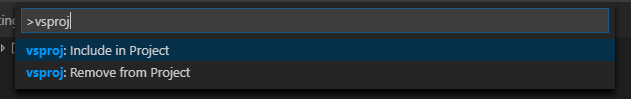
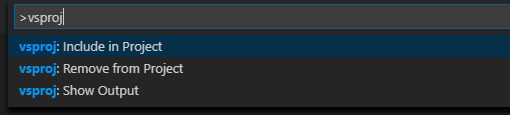
Debug output visible from terminal

diff --git a/src/extension.ts b/src/extension.ts
@@ -7,6 +7,7 @@ import * as path from 'path'
 import { Vsproj, ActionArgs, ItemType } from './types'
 import * as VsprojUtil from './vsproj'
 import * as StatusBar from './statusbar'
+import { VsProjOutput } from "./vsprojOutput";
 
 const { window, commands, workspace } = vscode
 const debounce = require('lodash.debounce')
@@ -16,7 +17,9 @@ const _debounceDeleteTime = 2000
 let _vsprojRemovals: string[] = []
 let workspaceParentFolders: string[];
 
-export function activate(context: vscode.ExtensionContext) {
+const _disposables: vscode.Disposable[] = [];
+
+export async function activate(context: vscode.ExtensionContext) {
    const config = getGlobalConfig()
    //Gobal activation
    if (!config.get<boolean>('enabled', true))
@@ -30,15 +33,22 @@ export function activate(context: vscode.ExtensionContext) {
       return;
    }
 
+   _disposables.push(await VsProjOutput.CreateChannel());
+
    const projExt = config.get<string>('projExtension', 'njsproj')
 
-   console.log('extension.vsproj#activate for', projExt);
+   VsProjOutput.AppendLine('extension.vsproj#activate for', projExt);
 
    const vsprojWatcher = workspace.createFileSystemWatcher(`**/*.${ projExt }`);
    const deleteFileWatcher = workspace.createFileSystemWatcher('**/*', true, true, false);
    const createAndChangeFileWatcher = workspace.createFileSystemWatcher('**/*', false, false, true);
 
    context.subscriptions.push(
+      commands.registerCommand('extension.vsproj.output',
+         () => {
+            //Show debug output console
+            VsProjOutput.Show()
+         }),
       commands.registerCommand('extension.vsproj.add',
          vsprojAddCommand.bind(context)),
       commands.registerCommand('extension.vsproj.remove',
@@ -107,9 +117,10 @@ function getWorkspaceParentFolders() {
 }
 
 export function deactivate() {
-   console.log('extension.vsproj#deactivate');
+   VsProjOutput.AppendLine('extension.vsproj#deactivate');
    VsprojUtil.invalidateAll();
    StatusBar.hideItem();
+   _disposables.forEach(d => d.dispose());
 }
 
 function ignoreEvent(context: vscode.ExtensionContext, uri: vscode.Uri) {
@@ -169,18 +180,18 @@ async function processAddCommand(
    bulkMode = false) {
 
    const fileName = path.basename(fsPath)
-   console.log(`extension.vsproj#trigger(${ fileName })#add`);
+   VsProjOutput.AppendLine(`extension.vsproj#trigger(${ fileName })#add`);
 
    try {
       const vsproj = await getVsprojForFile(fsPath);
       if (!vsproj) return;
 
       if (VsprojUtil.hasFile(vsproj, fsPath)) {
-         console.log(`extension.vsproj#trigger(${ fileName }): already in proj file`);
+         VsProjOutput.AppendLine(`extension.vsproj#trigger(${ fileName }): already in proj file`);
          return;
       }
 
-      console.log(`extension.vsproj#trigger(${ fileName }): add file`);
+      VsProjOutput.AppendLine(`extension.vsproj#trigger(${ fileName }): add file`);
 
       const added = await runAction({
          filePath: fsPath,
@@ -194,10 +205,10 @@ async function processAddCommand(
 
    } catch (err) {
       if (!(err instanceof VsprojUtil.NoVsprojError)) {
-         window.showErrorMessage(err.toString())
          console.trace(err)
+         VsProjOutput.AppendLine(err);
       } else {
-         console.log(`extension.vsproj#trigger(${ fileName }): no project file found`)
+         VsProjOutput.AppendLine(`extension.vsproj#trigger(${ fileName }): no project file found`)
       }
    }
 };
@@ -271,9 +282,12 @@ async function fileExists(fsPath: string) {
 
 async function handleFileDeletion({ fsPath }: vscode.Uri) {
    try {
-      console.log("did delete", fsPath);
       const vsproj = await getVsprojForFile(fsPath);
       if (!vsproj) return;
+
+      const fileName = path.basename(fsPath);
+      VsProjOutput.AppendLine(`extension.vsproj#trigger(${ fileName }) : will be deleted`);
+
       if (!wasDirectory(fsPath) && !VsprojUtil.hasFile(vsproj, fsPath))
          return
 
@@ -284,7 +298,8 @@ async function handleFileDeletion({ fsPath }: vscode.Uri) {
          () => { _vsprojRemovals = [] }
       )
    } catch (err) {
-      console.trace(err)
+      console.trace(err);
+      VsProjOutput.AppendLine(err);
    }
 }
 
@@ -360,17 +375,17 @@ async function vsprojRemoveCommand(
 
    const wasDir = wasDirectory(fsPath);
    const fileName = path.basename(fsPath);
-   console.log(`extension.vsproj#remove(${ fsPath })`)
+   VsProjOutput.AppendLine(`extension.vsproj#remove(${ fsPath })`);
 
    try {
       const removed = await VsprojUtil.removeFile(vsproj, fsPath, wasDir)
       await VsprojUtil.persist(vsproj)
       if (!removed && !bulkMode) {
-         window.showWarningMessage(`${ fileName } was not found in ${ vsproj.name }`)
+         VsProjOutput.AppendLine(`${ fileName } was not found in ${ vsproj.name }`);
       }
    } catch (err) {
-      window.showErrorMessage(err.toString())
-      console.trace(err)
+      console.trace(err);
+      VsProjOutput.AppendLine(err);
    }
 }
 
@@ -381,9 +396,10 @@ async function getVsprojForFile(fsPath: string) {
    } catch (err) {
       if (err instanceof VsprojUtil.NoVsprojError) {
          const fileName = path.basename(fsPath)
-         await window.showErrorMessage(`Unable to locate vsproj for file: ${ fileName }`)
+         VsProjOutput.AppendLine(`Unable to locate vsproj for file: ${ fileName }`);
       } else {
-         console.trace(err)
+         console.trace(err);
+         VsProjOutput.AppendLine(err);
       }
       return
    }

diff --git a/src/vsProjOutput.ts b/src/vsProjOutput.ts
@@ -1,0 +1,30 @@
+"use strict";
+
+import { OutputChannel, window } from "vscode";
+
+export class VsProjOutput {
+   private static _outputChannel: OutputChannel;
+
+   public static async CreateChannel(): Promise<OutputChannel> {
+      if (VsProjOutput._outputChannel !== undefined) {
+         return VsProjOutput._outputChannel;
+      }
+
+      VsProjOutput._outputChannel = window.createOutputChannel("VSPROJ");
+      return VsProjOutput._outputChannel;
+   }
+
+   public static AppendLine(...args: any[]) {
+      const argumentsArray = Array.from(args);
+      if (VsProjOutput._outputChannel) {
+         VsProjOutput._outputChannel.append(argumentsArray.join(" ") + "\n");
+      }
+      console.log(...argumentsArray);
+   }
+
+   public static Show() {
+      if (VsProjOutput._outputChannel) {
+         VsProjOutput._outputChannel.show();
+      }
+   }
+}

diff --git a/README.md b/README.md
@@ -36,13 +36,19 @@ Or via the context menu in the file explorer:
 
 ![Context Menu](img/demo-context-menu.png "Context Menu")
 
+## Debug
+
+You can see extension output in the _output_ tab of the terminal.
+
+![Output](img/demo-output.png "Output")
+
 ## Extension Settings
 
-This extension contributes the following settings:
+This extension contributes the following settings (all settings can be overrided in the workspace but it is not merged) :
 
 | **Setting Key**         | **Description**
 |-------------------------|-----------------
-| `vsproj.enable`         | Enable/disable this extension globally.
+| `vsproj.enable`         | Enable/disable this extension.
 | `vsproj.projExtension`  | VS project file to watch and update. Defaults: "njsproj"
 | `vsproj.itemType`       | Mapping from file extension to vsproj XML element. Defaults to: <br/> `{ "*": "Content", ".ts": "TypeScriptCompile" }`
 | `vsproj.includeRegex`   | Regular expression to match files you want to add to vsproj.
